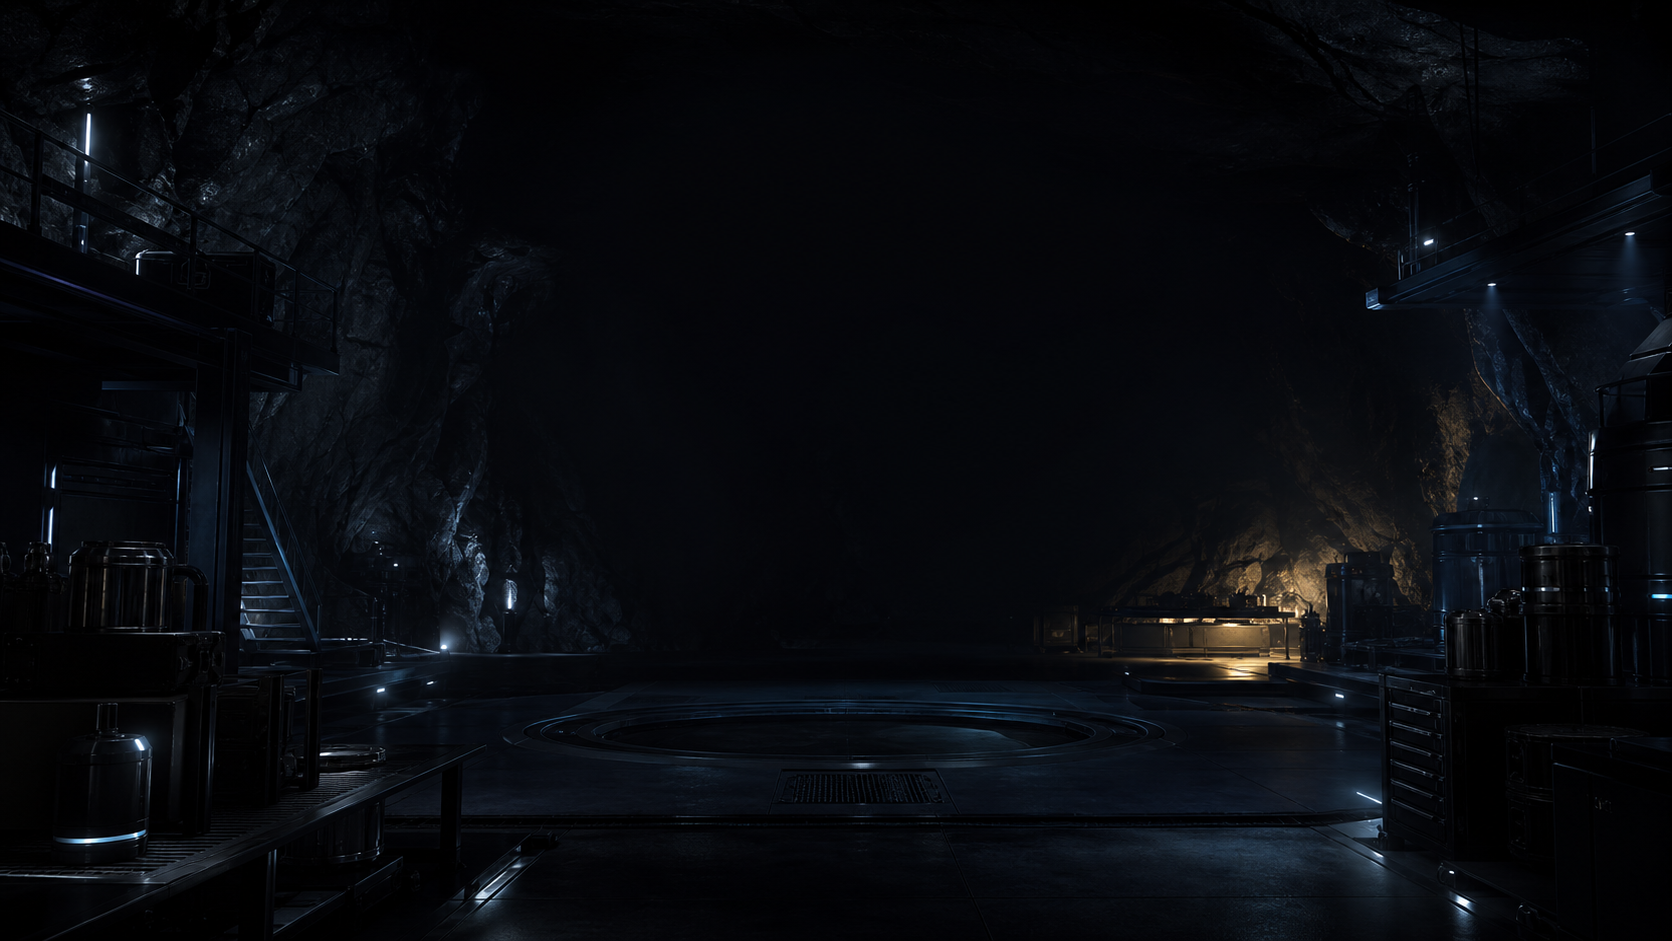
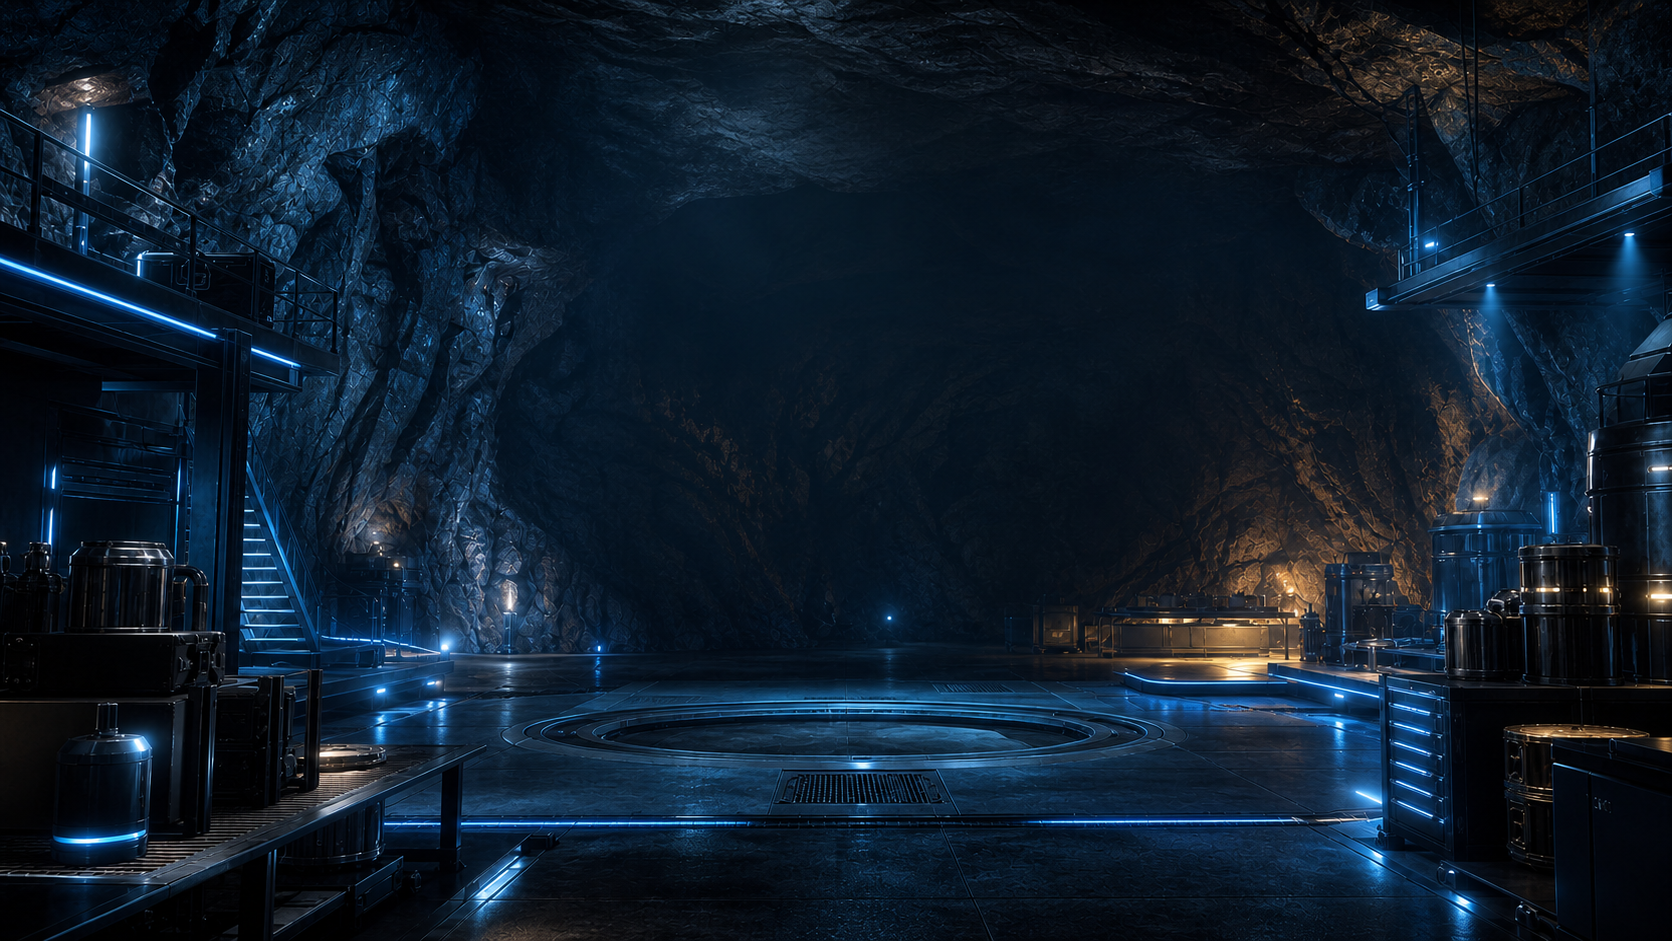
Add files via upload

diff --git a/cinematic-ui.css b/cinematic-ui.css
@@ -35,25 +35,6 @@ body::before {
 }
 
 /* Practical room lighting — deliberately visible so the environment is part of the interface. */
-body::after {
-  content: "";
-  position: fixed;
-  inset: 0;
-  pointer-events: none;
-  z-index: 0;
-  opacity: .92;
-  mix-blend-mode: screen;
-  background:
-    radial-gradient(ellipse 38% 9% at 50% 1%, rgba(74, 174, 255, .35), transparent 72%),
-    radial-gradient(circle at 8% 25%, rgba(50, 154, 255, .28) 0 1px, rgba(50, 154, 255, .13) 2px, transparent 12%),
-    radial-gradient(circle at 93% 20%, rgba(243, 181, 75, .30) 0 1px, rgba(243, 181, 75, .13) 2px, transparent 13%),
-    radial-gradient(ellipse 25% 48% at 2% 63%, rgba(34, 119, 216, .17), transparent 72%),
-    radial-gradient(ellipse 28% 54% at 98% 69%, rgba(243, 164, 58, .13), transparent 70%),
-    linear-gradient(90deg, transparent 0 10%, rgba(72, 170, 255, .22) 10.1%, rgba(72, 170, 255, .06) 10.45%, transparent 10.8% 89%, rgba(243, 181, 75, .16) 89.2%, rgba(243, 181, 75, .04) 89.5%, transparent 90%),
-    linear-gradient(180deg, rgba(80, 183, 255, .20), transparent 2px, transparent 7%, rgba(243, 181, 75, .10) 7.1%, transparent 7.3%);
-  box-shadow: inset 0 1px 42px rgba(65, 169, 255, .21), inset 0 -1px 48px rgba(243, 180, 75, .13);
-  animation: aegis-room-lights 5.5s ease-in-out infinite;
-}
 
 /* Each system opens into its own physical room. The active app tab selects the room. */
 body:has(#detective.active) { background-image: linear-gradient(90deg, rgba(3,8,14,.59), rgba(3,8,14,.17) 52%, rgba(3,8,14,.48)), linear-gradient(180deg, rgba(3,8,14,.02), rgba(3,8,14,.37)), url("assets/detective-desk.png") !important; }
@@ -332,7 +313,6 @@ dialog::backdrop { background: rgba(0, 6, 13, .70); backdrop-filter: blur(7px); 
 @keyframes aegis-sweep { 0%,22% { transform:translateX(-140%); } 50%,100% { transform:translateX(140%); } }
 @keyframes aegis-float { 0%,100% { transform:translateY(0); } 50% { transform:translateY(-7px); } }
 @keyframes aegis-orbit { to { transform:rotate(360deg); } }
-@keyframes aegis-room-lights { 0%,100% { opacity:.76; } 50% { opacity:1; } }
 
 @media (max-width: 760px) {
   .view.active:not(#command) { padding: 20px 16px; }
